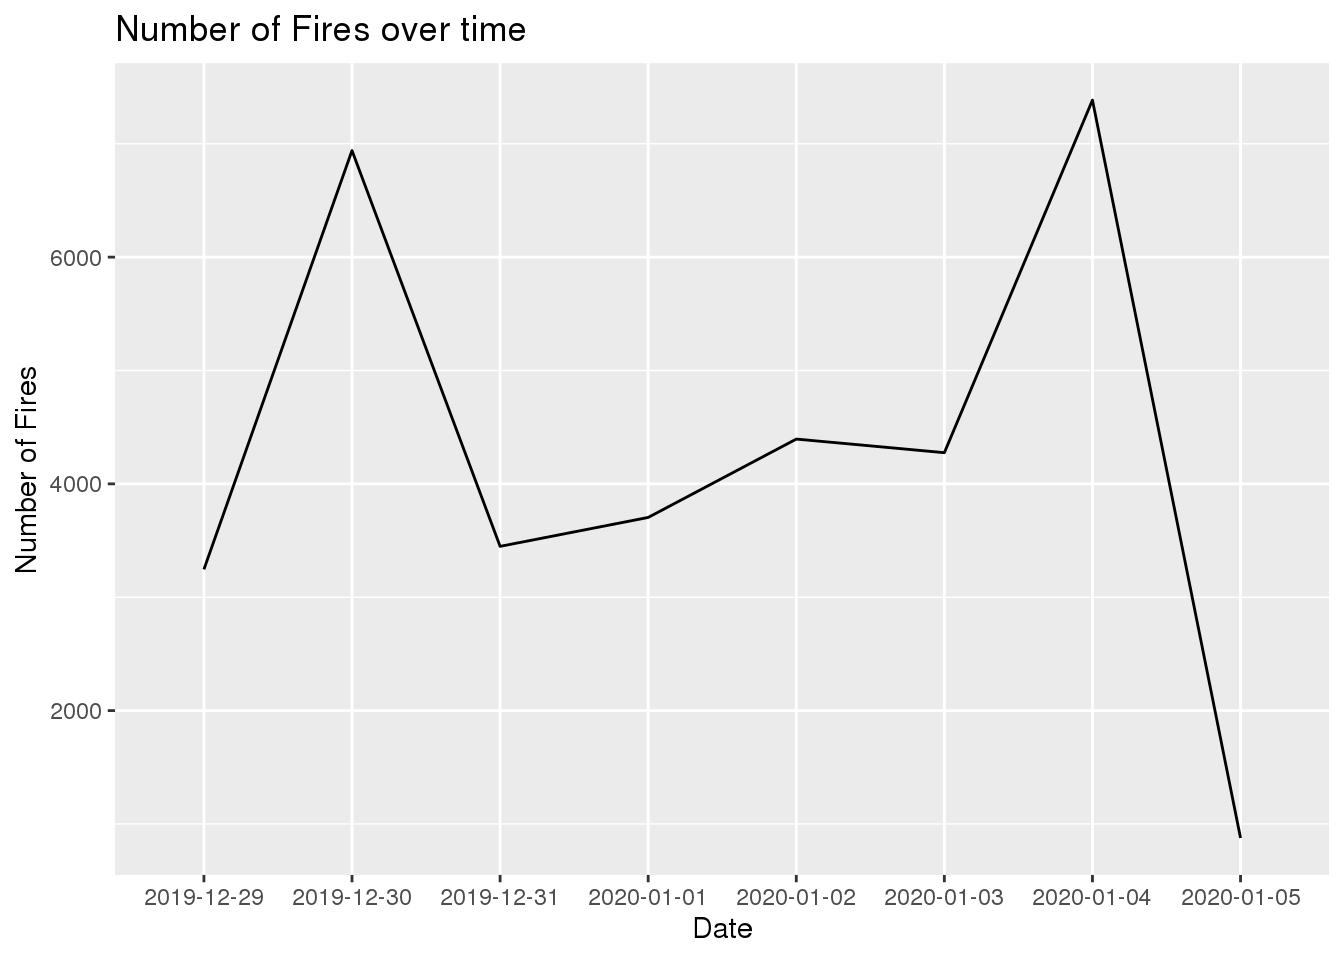
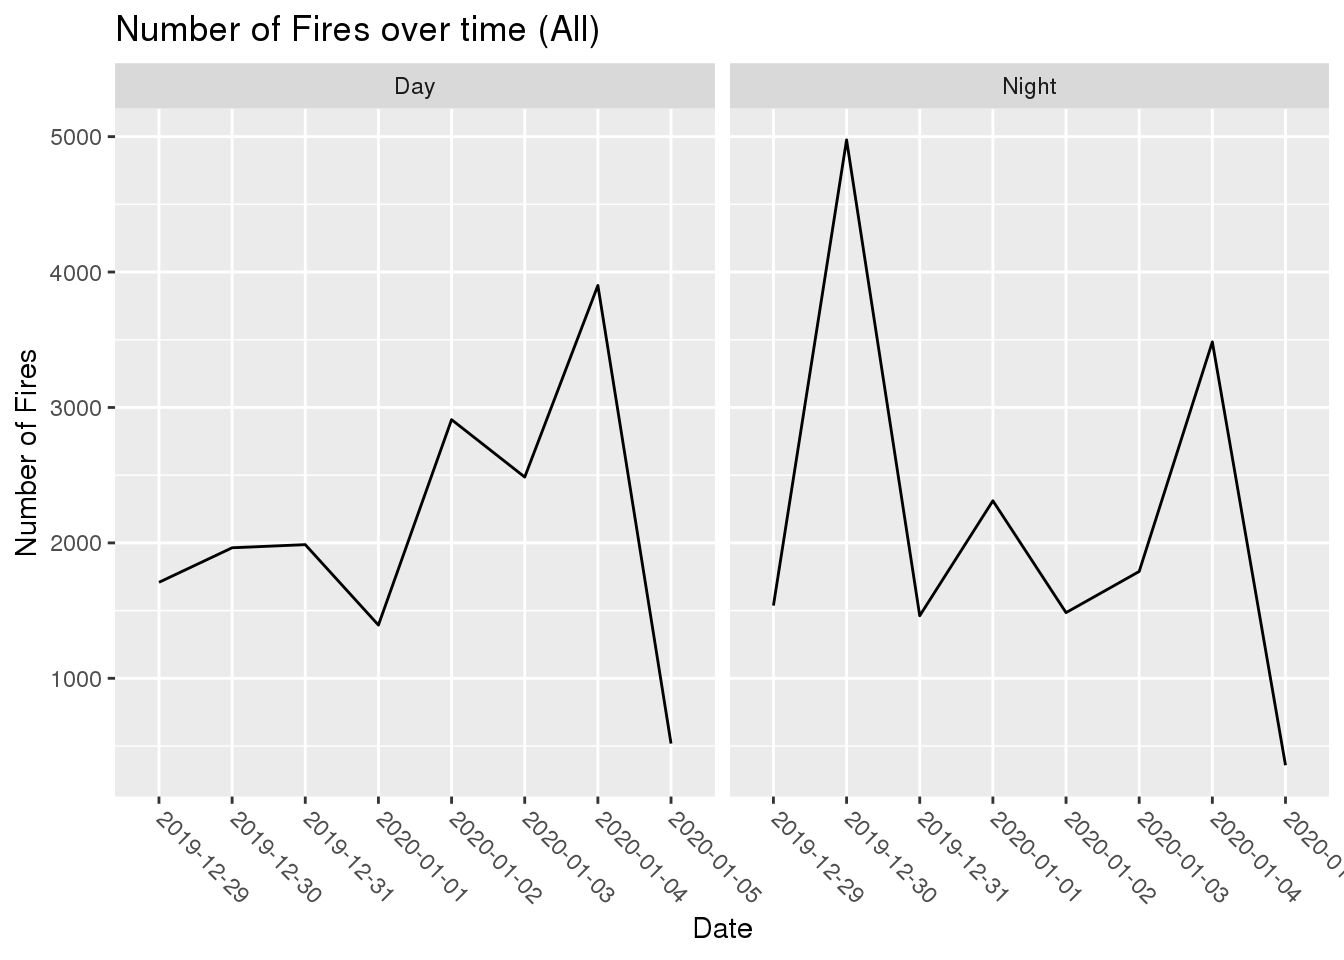
Blog Update

diff --git a/content/post/2020-12-13-australia-fires/index.html b/content/post/2020-12-13-australia-fires/index.html
@@ -11,7 +11,7 @@ tags: []
 <script src="index_files/anchor-sections/anchor-sections.js"></script>
 
 
-<p>Using the Australia fires data from tinytuesday I will investigate the location and frequency of the fires in Australia. I will use the rainfall and MODIS datasets to explore this. The variables in the rainfall data are city_name, which is the name of the city where rainfall was measured, lat and long, which are the coordinates of the city, year, month and day, which together are the date the rainfall was measured on. The MODIS data has the latitude and longitude variables which show the coordinates of the fire’s center and acq_date which is the date when the fire started over the 8 days measured.</p>
+<p>Using the Australia fires data from tinytuesday I will investigate the location and frequency of the fires in Australia. I will use the rainfall and MODIS datasets to explore this. The variables in the rainfall data are city_name, which is the name of the city where rainfall was measured, lat and long, which are the coordinates of the city, year, month and day, which together are the date the rainfall was measured on. The MODIS data has the latitude and longitude variables which show the coordinates of the fire’s center, acq_date which is the date when the fire started over the 8 days measured and confidence which is the percent chance that the point recorded is actually a fire.</p>
 <pre class="r"><code>Rainfall &lt;- read.csv(here::here(&quot;content&quot;, &quot;post&quot;, &quot;2020-12-13-australia-fires&quot;, 
     &quot;data&quot;, &quot;rainfall.csv&quot;))
 Temperature &lt;- read.csv(here::here(&quot;content&quot;, &quot;post&quot;, &quot;2020-12-13-australia-fires&quot;, 
@@ -43,16 +43,6 @@ xlab(&quot;City&quot;) +
 ggtitle(&quot;Number of Nearby Fires vs Cities&quot;)</code></pre>
 <p><img src="index_files/figure-html/unnamed-chunk-3-1.png" width="672" /></p>
 <p>There were fires only in three out of the six cities recorded, and it seems Sydney has by far the greatest number of nearby fires, having almost double the number of Perth and Melbourne.</p>
-<p>Fires %&gt;%</p>
-<p>mutate(longitude = round(longitude,digits=1),latitude=round(latitude,digits=1))%&gt;%</p>
-<p>group_by(longitude,latitude)%&gt;%</p>
-<p>summarize(total = n())%&gt;%</p>
-<p>ungroup()%&gt;%</p>
-<p>slice_max(total, n = 20)%&gt;%</p>
-<p>ggplot(aes(longitude,latitude))+</p>
-<p>borders(“world”)+</p>
-<p>coord_quickmap(xlim = 145:155,ylim = -38:-20)+</p>
-<p>geom_point(position = “dodge”)</p>
 </div>
 <div id="question-2" class="section level1">
 <h1>Question 2:</h1>
@@ -64,10 +54,14 @@ group_by(longitude, latitude) %&gt;%
 summarize(total = n()) %&gt;% 
 ungroup() %&gt;% 
 slice_max(total, n = 20) %&gt;% 
-ggplot(aes(longitude, latitude, color = total)) + 
+rename(TotalFires = &quot;total&quot;) %&gt;% 
+ggplot(aes(longitude, latitude, color = TotalFires)) + 
 borders(&quot;world&quot;) + 
 coord_quickmap(xlim = 113:155, ylim = -38:-10) + 
-geom_point(position = &quot;jitter&quot;)</code></pre>
+geom_point(position = &quot;jitter&quot;) + 
+guides(size = FALSE) + 
+scale_color_gradient(low = &quot;blue&quot;, high = &quot;red&quot;) + 
+ggtitle(&quot;Areas With the Heaviest Concentration of Fires&quot;)</code></pre>
 <p><img src="index_files/figure-html/unnamed-chunk-4-1.png" width="672" /></p>
 <pre class="r"><code>Fires %&gt;% 
 mutate(longitude = round(longitude, digits = 1), latitude = round(latitude, digits = 1)) %&gt;% 
@@ -95,14 +89,43 @@ rename(`Total Fires In Area` = &quot;total&quot;)</code></pre>
 </div>
 <div id="question-3" class="section level1">
 <h1>Question 3:</h1>
-<p>How has the frequency of fires changed over the 8 days? To determine this, I will create a line graph counting every instance of a fire over the days.</p>
-<pre class="r"><code>Fires %&gt;% 
+<p>How has the frequency of fires changed over the 8 days, and is there any difference between the frequency of fires during the day and during the night? To determine this, I will create a line graph counting every instance of a fire over the days and faceting it based on whether it happened during the day or during the night. One thing to note however is that, as indicated by the confidence variable ranging from 0% to 100%, it is possible that some of the fire detections by the satellite listed in the data are not actually fires, so I will also make a graph for only fire detections above 50% confidence and at 100% confidence to see if there’s any variation between them.</p>
+<pre class="r"><code>levels(Fires$daynight) &lt;- c(&quot;Day&quot;, &quot;Night&quot;)
+
+Fires %&gt;% 
+group_by(daynight) %&gt;% 
 count(acq_date) %&gt;% 
 ggplot(aes(acq_date, n)) + 
 geom_line(group = 1) + 
 ylab(&quot;Number of Fires&quot;) + 
 xlab(&quot;Date&quot;) + 
-ggtitle(&quot;Number of Fires over time&quot;)</code></pre>
+ggtitle(&quot;Number of Fires over time (All)&quot;) + 
+facet_wrap(~daynight) + 
+theme(axis.text.x = element_text(angle = -45, hjust = -0.1))</code></pre>
 <p><img src="index_files/figure-html/unnamed-chunk-5-1.png" width="672" /></p>
-<p>The amount of fires is mostly consistent with a spike on the second and seventh day, but there’s a very sharp drop in the number of fires on the eighth day.</p>
+<pre class="r"><code>Fires %&gt;% 
+filter(confidence &gt;= 50) %&gt;% 
+group_by(daynight) %&gt;% 
+count(acq_date) %&gt;% 
+ggplot(aes(acq_date, n)) + 
+geom_line(group = 1) + 
+ylab(&quot;Number of Fires&quot;) + 
+xlab(&quot;Date&quot;) + 
+ggtitle(&quot;Number of Fires over time (50% and above Confidence)&quot;) + 
+facet_wrap(~daynight) + 
+theme(axis.text.x = element_text(angle = -45, hjust = -0.1))</code></pre>
+<p><img src="index_files/figure-html/unnamed-chunk-5-2.png" width="672" /></p>
+<pre class="r"><code>Fires %&gt;% 
+filter(confidence &gt;= 100) %&gt;% 
+group_by(daynight) %&gt;% 
+count(acq_date) %&gt;% 
+ggplot(aes(acq_date, n)) + 
+geom_line(group = 1) + 
+ylab(&quot;Number of Fires&quot;) + 
+xlab(&quot;Date&quot;) + 
+ggtitle(&quot;Number of Fires over time (100% Confidence)&quot;) + 
+facet_wrap(~daynight) + 
+theme(axis.text.x = element_text(angle = -45, hjust = -0.1))</code></pre>
+<p><img src="index_files/figure-html/unnamed-chunk-5-3.png" width="672" /></p>
+<p>The amount of fires is mostly consistent with a spike on day two and day seven for nighttime and on the fifth and seventh day for daytime, but there’s a very sharp drop in the number of fires for both daytime and nighttime on the eighth day. In addition, although different confidence levels change the total number of fires, the overall trend is the same for the three levels chosen.</p>
 </div>
